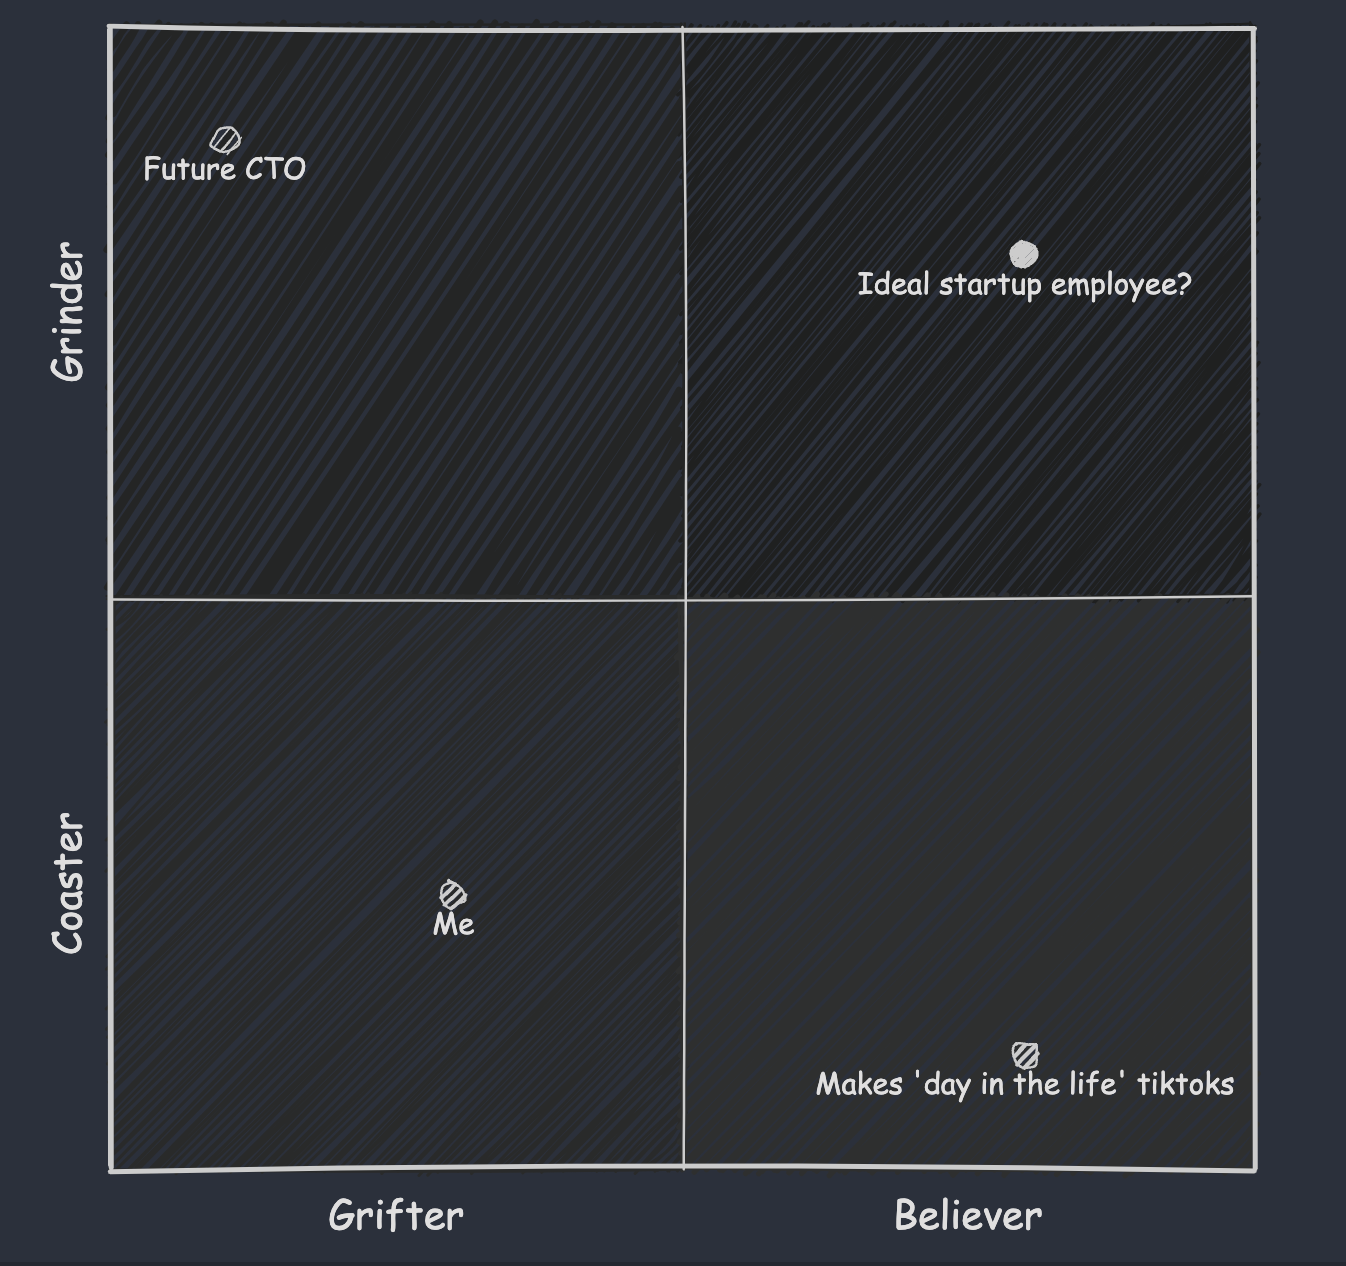
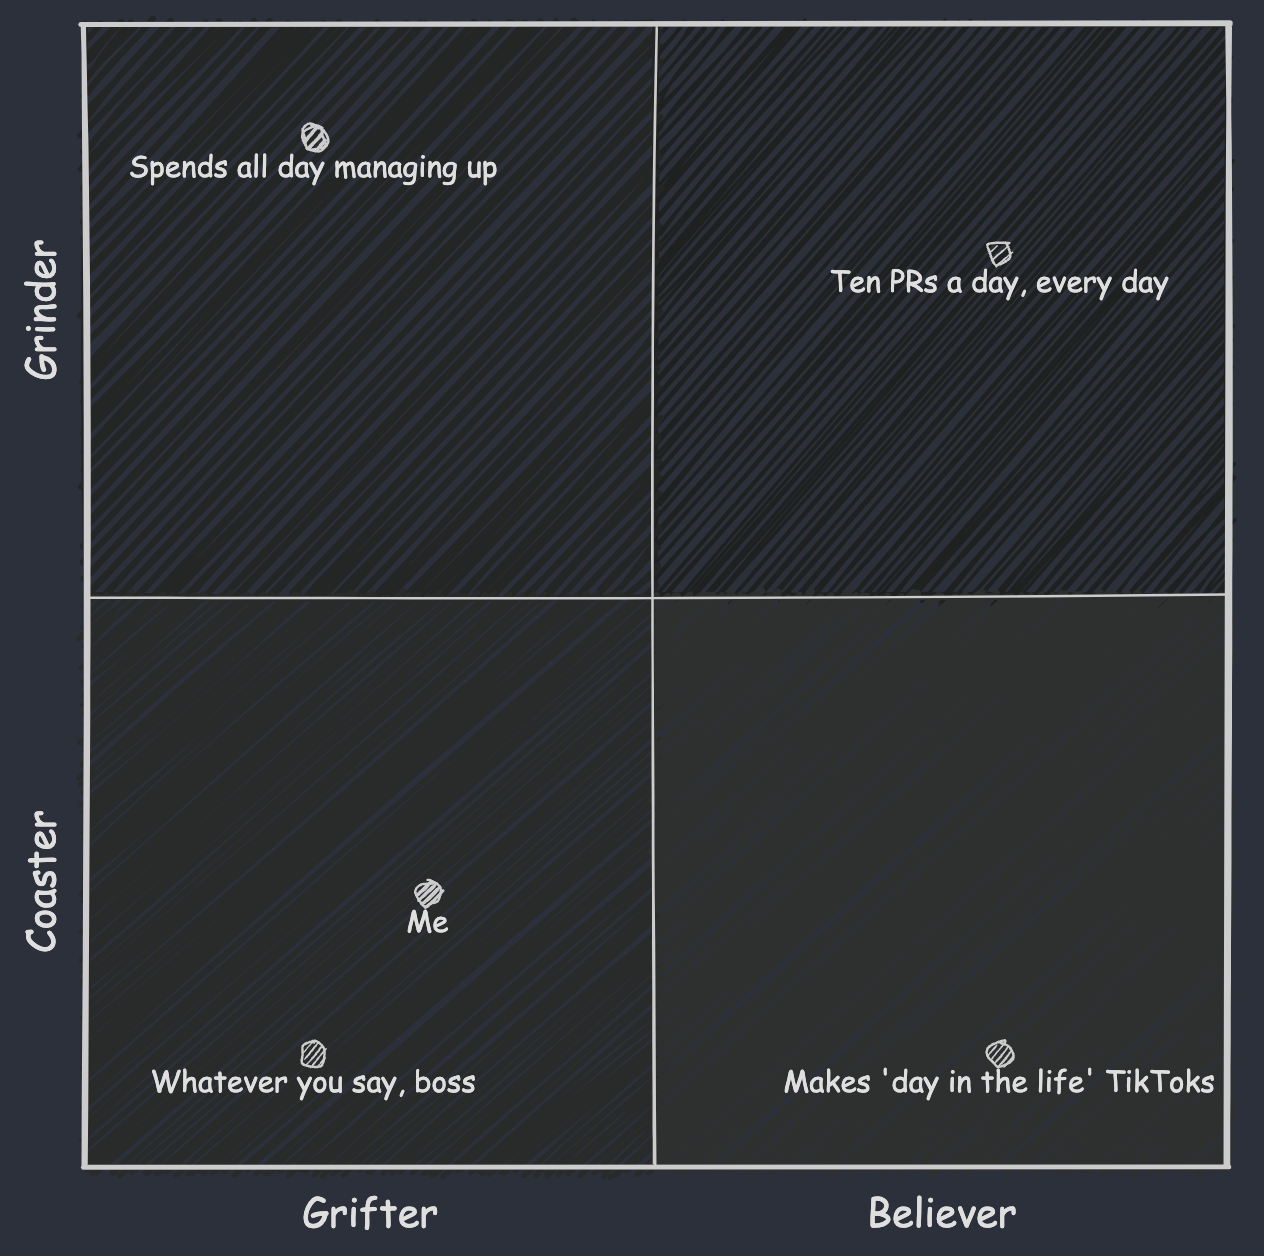
adkjfhlkdf

Changed region(s): [[0.0, 0.0, 0.9873, 0.9936], [0.1234, 0.8384, 0.3703, 0.8694], [0.3085, 0.6831, 0.3703, 0.7452]]

diff --git a/src/styles/global.css b/src/styles/global.css
@@ -37,3 +37,8 @@ ol li {
   margin-left: 20px;
   padding-left: 10px;
 }
+
+ul li {
+  margin-left: 20px;
+  padding-left: 10px;
+}

diff --git a/content/blog/programmer-archetypes/index.md b/content/blog/programmer-archetypes/index.md
@@ -5,11 +5,15 @@ order: 18
 date: '2024-12-02'
 ---
 
-Why do engineers get mad at each other so often?[^1] One reason is that there are lots of very different ways to be a software engineer. If you're approaching the job one way, people doing it the the other way can seem like assholes. Let's make that concrete by introducing two pairs of archetypes: grifter/believer and grinder/coaster. I think the best companies actually have a healthy mix of all four types of engineer, so it's probably sensible to figure out how to work with the archetypes you don't share.
+Why do engineers get mad at each other so often?[^1] 
 
-I want to be really clear that **I am only talking about good engineers**. I think "grifters" and "coasters" can be as good at their jobs as believers and grinders. I'm naming them this way because these are the names you'd give them when you're complaining about your coworkers. I myself fall mostly in the grifter + coaster quadrant, and [I think I'm great at my job](/how-to-ship). Here's a beautiful diagram:
+I think a lot of programmer arguments bottom out in a cultural clash between different kinds of engineers: between believers and grifters, or between coasters and grinders. But good companies actually have a healthy mix of all four types of engineer, so it's probably sensible to figure out how to work with the archetypes you don't share.
+
+Despite the names, I think grifters and coasters can be as good at their jobs as believers and grinders. I'm naming them this way because these are the names you'd give them when you're complaining about your coworkers. I myself fall mostly in the grifter + coaster quadrant, and [I think I'm great at my job](/how-to-ship). Here's a beautiful diagram:
 
 ![quadrants](quadrants.png)
+
+Let me say a little more about each archetype.
 
 ## Grifters
 
@@ -35,9 +39,10 @@ Grinders are locked in. There's always something that needs doing and the grinde
 
 The strengths of a grinder are obvious: they do a lot of work. The weaknesses are also pretty straightforward: when a grinder burns out, they burn out _hard_. In my experience, grinders also tend to be pretty high-strung, since operating with intensity for a long time puts strain on the whole system. If it's not obvious from the way I'm writing about this, I don't think being a grinder is sustainable as a general mode of operating (of course I'd say that, since I'm a coaster by nature). I've met a lot of junior engineers who are grinders, but very few staff+ engineers. I think that's no accident. You either learn to dial it back a bit in the first 5-10 years or you flame out of the industry entirely.
 
-## Conflict
+## Summary
 
-I think a lot of programmer arguments bottom out in a cultural clash between believers and grifters, or between coasters and grinders. But it's useful to have a mix of these types of engineers. If you're a grifter, you need to figure out how to work with believers, because an all-grifter company isn't the kind of place you want to work. If you're a grinder, you need to figure out how to work with coasters, because you're likely to become one at some point if you want to stay in the industry (or at minimum many of your peers will).
+* If you're a grifter, you need to figure out how to work with believers, because an all-grifter company isn't the kind of place you want to work.
+* If you're a grinder, you need to figure out how to work with coasters, because you're likely to become one at some point if you want to stay in the industry (or at minimum many of your peers will).
 
 
 [^1]: If you work in a very agreeable team and don't think this is true, go read the Hacker News comments on a randomly-chosen article.
